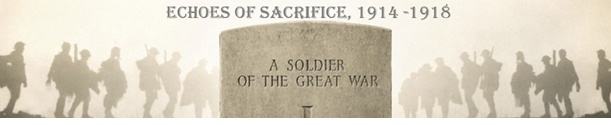
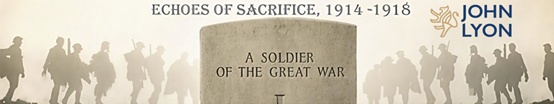
Add files via upload

diff --git a/index.html b/index.html
@@ -149,7 +149,7 @@
 <body>
 
 <div class="container">
-    <header style="background-image: url('JLS_2014_WWId.png'); background-size: cover; background-position: center; background-repeat: no-repeat; min-height: 220px;">
+    <header style="background-image: url('JLS_2014_WWId.jpg'); background-size: cover; background-position: center; background-repeat: no-repeat; min-height: 220px;">
 <!--        <h1>Echoes of Sacrifice 1914-1918</h1>  -->
        
 <!-- <p class="subtitle"><strong>For Your Tomorrow, We Gave Our Today</strong></p> -->
